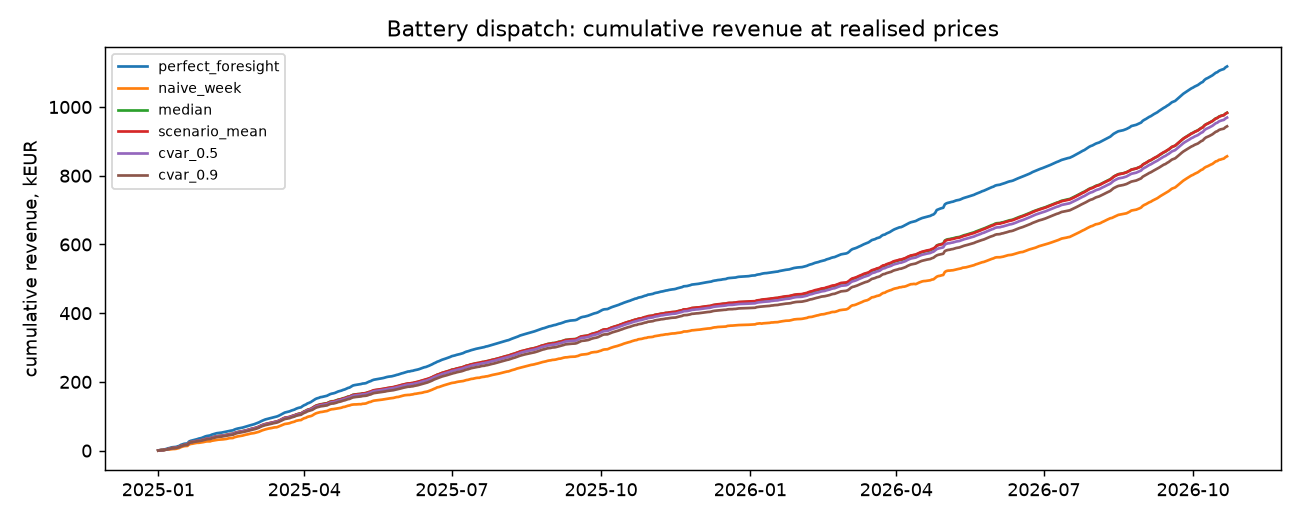
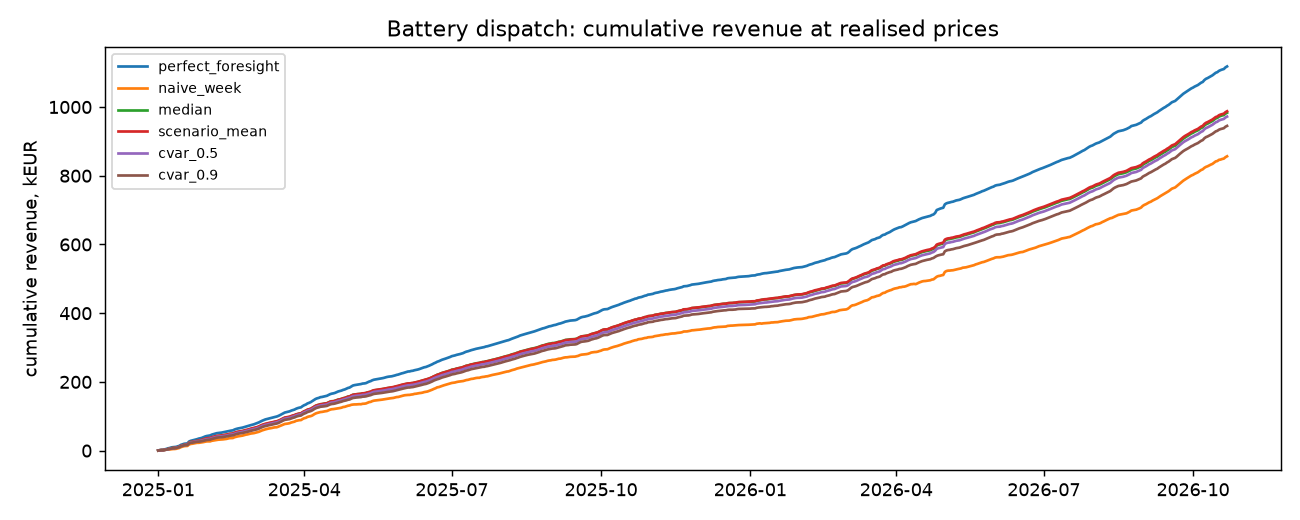
Review fixes: internal-only MLflow, past-only copula rho, README corrections

diff --git a/src/energy_forecasting/pipeline.py b/src/energy_forecasting/pipeline.py
@@ -78,10 +78,10 @@ def stage_backtest(s: Settings | None = None) -> pd.DataFrame:
     p = _paths(s)
     feats = FeatureSchema.validate(pd.read_parquet(p["features"]))
     raw = load_raw(p["raw"])
-    pred = run_backtest(feats, raw)
+    pred = run_backtest(feats, raw, s.first_fold, s.calib_months)
     PredictionSchema.validate(pred)
     pred.to_parquet(p["pred"])
-    metrics = evaluate(pred)
+    metrics = evaluate(pred, s.eval_start)
     metrics.to_csv(p["metrics"])
     with tracking.run("backtest") as active:
         if active:
@@ -98,14 +98,20 @@ def stage_dispatch(s: Settings | None = None, batt: Battery | None = None) -> pd
     batt = batt or Battery()
     p = _paths(s)
     pred = PredictionSchema.validate(pd.read_parquet(p["pred"]))
-    daily, rho = run_dispatch_backtest(pred, batt, QCOLS, lambdas=(0.5, 0.9), seed=s.seed)
+    daily, rho_by_month = run_dispatch_backtest(
+        pred, batt, QCOLS, lambdas=(0.5, 0.9), seed=s.seed, eval_start=s.eval_start
+    )
     daily.to_parquet(p["daily"])
     summary = summarise(daily, batt)
     summary.to_csv(p["dispatch"])
-    p["meta"].write_text(json.dumps({"rho": rho, "n_days": len(daily), "battery": batt.__dict__}))
+    p["meta"].write_text(
+        json.dumps({"rho_by_month": rho_by_month, "n_days": len(daily), "battery": batt.__dict__})
+    )
     with tracking.run("dispatch") as active:
         if active:
-            mlflow.log_params({**batt.__dict__, "copula_rho": round(rho, 3)})
+            mlflow.log_params(
+                {**batt.__dict__, "copula_rho_mean": round(sum(rho_by_month.values()) / len(rho_by_month), 3)}
+            )
             for strat, row in summary.iterrows():
                 mlflow.log_metrics({f"{strat}.{k}": v for k, v in row.items()})
             mlflow.log_artifact(str(p["dispatch"]))
@@ -121,6 +127,7 @@ def stage_report(s: Settings | None = None) -> None:
     pred = pd.read_parquet(p["pred"])
 
     # forecast fan chart for a sample week
+    pred = pred[pred["fold"] >= pd.Timestamp(s.eval_start)]
     week = pred.loc[pred.index >= pred.index[len(pred) // 2]].iloc[: 24 * 7]
     fig, ax = plt.subplots(figsize=(10, 4))
     ax.fill_between(week.index, week["c0.9_lo"], week["c0.9_hi"], alpha=0.2, label="90% (CQR)")

diff --git a/src/energy_forecasting/dispatch.py b/src/energy_forecasting/dispatch.py
@@ -109,15 +109,31 @@ def run_dispatch_backtest(
     lambdas: tuple[float, ...] = (0.5,),
     n_scen: int = 50,
     seed: int = 42,
-) -> tuple[pd.DataFrame, float]:
-    """Daily revenues (EUR) at realised prices for each strategy."""
+    eval_start: str = "2025-01-01",
+) -> tuple[pd.DataFrame, dict[str, float]]:
+    """Daily revenues (EUR) at realised prices for each strategy.
+
+    The copula correlation rho for each month is estimated only from the raw-quantile
+    predictions of earlier folds (burn-in folds included), never from the month itself.
+    """
     local = pred.index.tz_convert("Europe/Paris")
     date = np.asarray(local.normalize().tz_localize(None))
-    rho = estimate_rho(pred["y"].to_numpy(), pred[qcols].to_numpy(), date)
+    folds = pred["fold"].to_numpy()
+    rho_by_month: dict[str, float] = {}
     rows = []
     for k, (day, g) in enumerate(pred.groupby(date)):
+        fold = g["fold"].iloc[0]
+        if fold < pd.Timestamp(eval_start):
+            continue
         if len(g) < 23 or g[qcols + ["y", "naive_week"]].isna().any().any():
             continue
+        key = str(fold.date())
+        if key not in rho_by_month:
+            past = folds < fold
+            rho_by_month[key] = estimate_rho(
+                pred["y"].to_numpy()[past], pred[qcols].to_numpy()[past], date[past]
+            )
+        rho = rho_by_month[key]
         y = g["y"].to_numpy()
         row: dict[str, float] = {"date": day}
         for name, price in (
@@ -131,7 +147,7 @@ def run_dispatch_backtest(
         for lam in lambdas:
             row[f"cvar_{lam:g}"] = realised_revenue(y, *solve_schedule(sc, batt, lam=lam), batt)
         rows.append(row)
-    return pd.DataFrame(rows).set_index("date"), rho
+    return pd.DataFrame(rows).set_index("date"), rho_by_month
 
 
 def summarise(daily: pd.DataFrame, batt: Battery) -> pd.DataFrame:

diff --git a/src/energy_forecasting/backtest.py b/src/energy_forecasting/backtest.py
@@ -28,10 +28,10 @@ def run_backtest(
     feats: pd.DataFrame,
     raw: pd.DataFrame,
     first_fold: str = "2024-07-01",
-    eval_start: str = "2025-01-01",
     calib_months: int = 3,
 ) -> pd.DataFrame:
-    """Return per-hour predictions for all folds from `first_fold` to the end of the data.
+    """Return per-hour predictions for all folds from `first_fold` to the end of the data
+    (burn-in folds included; metrics and dispatch only use folds >= the evaluation start).
 
     Fold m: fit on all rows with delivery date < m (their targets are known at m's first
     origin), predict month m. Conformal offsets for month m use only out-of-sample scores
@@ -78,16 +78,20 @@ def run_backtest(
     emp.columns = ["emp_" + c for c in emp.columns]
     out = out.join(emp)
     out["median"] = out["q0.50"]
-    return out[out["fold"] >= pd.Timestamp(eval_start)] if eval_start else out
+    return out
 
 
 def _interval_stats(y: np.ndarray, lo: np.ndarray, hi: np.ndarray) -> tuple[float, float]:
     return float(((y >= lo) & (y <= hi)).mean()), float((hi - lo).mean())
 
 
-def evaluate(pred: pd.DataFrame) -> pd.DataFrame:
+def evaluate(pred: pd.DataFrame, eval_start: str = "2025-01-01") -> pd.DataFrame:
     """Metrics table, one row per method (rows with complete data only)."""
-    p = pred.dropna(subset=["c0.8_lo", "emp_q0.50", "naive_week"]).copy()
+    p = (
+        pred[pred["fold"] >= pd.Timestamp(eval_start)]
+        .dropna(subset=["c0.8_lo", "emp_q0.50", "naive_week"])
+        .copy()
+    )
     y = p["y"].to_numpy()
     qs = np.array(QUANTILES)
     rows = []

diff --git a/tests/test_pipeline_smoke.py b/tests/test_pipeline_smoke.py
@@ -14,18 +14,10 @@ from energy_forecasting.config import Settings
 @pytest.mark.slow
 def test_full_pipeline(raw: pd.DataFrame, tmp_path: Path, monkeypatch: pytest.MonkeyPatch) -> None:
     monkeypatch.setenv("MLFLOW_TRACKING_URI", f"file:{tmp_path / 'mlruns'}")
-    s = Settings(data_dir=tmp_path)
+    s = Settings(data_dir=tmp_path, first_fold="2025-03-01", eval_start="2025-05-01", calib_months=2)
     s.raw_dir.mkdir(parents=True)
     raw.to_parquet(s.raw_dir / "entsoe_hourly.parquet")
     monkeypatch.setattr(pipeline, "REPORTS", tmp_path / "reports")
-    # shorter backtest to keep CI fast
-    from energy_forecasting import backtest
-
-    orig = backtest.run_backtest
-    monkeypatch.setattr(
-        pipeline, "run_backtest",
-        lambda f, r: orig(f, r, first_fold="2025-03-01", eval_start="2025-05-01", calib_months=2),
-    )  # fmt: skip
     pipeline.stage_features(s)
     pipeline.stage_train(s)
     metrics = pipeline.stage_backtest(s)

diff --git a/src/energy_forecasting/config.py b/src/energy_forecasting/config.py
@@ -21,6 +21,9 @@ class Settings(BaseSettings):
     end: str = "2026-10-20"
     data_dir: Path = ROOT / "data"
     seed: int = 42
+    eval_start: str = "2025-01-01"
+    first_fold: str = "2024-07-01"
+    calib_months: int = 3
 
     @property
     def raw_dir(self) -> Path:

diff --git a/README.md b/README.md
@@ -28,7 +28,7 @@ flowchart LR
     INF --> OUT[forecast + schedule for D+1]
 ```
 
-Azure target (Terraform in [`infra/`](infra), **validated but never applied**): ACR, Key Vault (ENTSO-E key), Storage (Azure Files), PostgreSQL Flexible Server (MLflow DB), Container Apps environment with an MLflow app, a **daily Container Apps Job** running `energy infer` before gate closure, and a scale-to-zero read-only API.
+Azure target (Terraform in [`infra/`](infra), **validated but never applied**): ACR, Key Vault (ENTSO-E key), Storage (Azure Files), PostgreSQL Flexible Server (MLflow DB), Container Apps environment with an **internal-only** MLflow app (no authentication, so it is not exposed publicly), a **daily Container Apps Job** running `energy infer` before gate closure, and a scale-to-zero read-only API.
 
 ## Data
 
@@ -62,7 +62,7 @@ Azure target (Terraform in [`infra/`](infra), **validated but never applied**): 
 | QuantileGBM + CQR |    **17.31** |    6.60 | 13.20 |     0.80 |      54.60 |     0.89 |      72.09 |
 
 * The GBM cuts MAE by 36 % vs. the best naive baseline and CRPS by 39 % vs. the empirical-quantile baseline.
-* Raw quantiles are **over-confident** (66 % coverage for a nominal 80 % interval). CQR restores 79.5 % / 88.7 % coverage at the price of wider intervals — still ~30 % narrower than the empirical baseline at equal or better coverage.
+* Raw quantiles are **over-confident** (66 % coverage for a nominal 80 % interval). CQR restores 79.5 % / 88.7 % coverage at the price of wider intervals — still 25–30 % narrower than the empirical baseline (80 %: 54.6 vs 77.9; 90 %: 72.1 vs 96.0) at equal or better coverage.
 * 2026 is harder than 2025 (median MAE 20.7 vs. 14.6; price std 69 vs. 46 EUR/MWh), see `reports/results.md` and the MLflow runs.
 
 ![forecast](reports/figures/forecast_week.png)
@@ -76,7 +76,7 @@ LP per delivery day (cvxpy + HiGHS), 10 MW / 20 MWh battery, 90 % round-trip eff
 | `perfect_foresight` | LP on realised prices (upper bound) |
 | `naive_week` | LP on last week's prices |
 | `median` | LP on the forecast median |
-| `scenario_mean` | 50 price paths sampled from the quantiles (Gaussian AR(1) copula, ρ = 0.85 estimated from the PIT of the backtest), maximise expected revenue |
+| `scenario_mean` | 50 price paths sampled from the quantiles (Gaussian AR(1) copula, ρ ≈ 0.83–0.86, re-estimated each month from the PIT of earlier folds only, burn-in folds included), maximise expected revenue |
 | `cvar_λ` | same scenarios, maximise (1−λ)·E[R] + λ·CVaR₂₀%[R] (Rockafellar–Uryasev), λ ∈ {0.5, 0.9} |
 
 660 delivery days, 2025-01-01 → 2026-10-22:
@@ -86,14 +86,15 @@ LP per delivery day (cvxpy + HiGHS), 10 MW / 20 MWh battery, 90 % round-trip eff
 | perfect_foresight |        1,118.1 |          61,834 |                  100.0 |               504.7 |           948.1 |
 | naive_week        |          856.6 |          47,371 |                   76.6 |               164.0 |           916.1 |
 | median            |          983.3 |          54,381 |               **87.9** |               267.4 |           928.7 |
-| scenario_mean     |          983.0 |          54,361 |               **87.9** |               269.7 |           902.2 |
-| cvar_0.5          |          969.2 |          53,602 |                   86.7 |               277.0 |           890.0 |
-| cvar_0.9          |          943.8 |          52,196 |                   84.4 |               253.2 |           878.3 |
+| scenario_mean     |          987.5 |          54,614 |               **88.3** |               277.9 |           926.6 |
+| cvar_0.5          |          972.1 |          53,759 |                   86.9 |               275.9 |           913.9 |
+| cvar_0.9          |          945.0 |          52,262 |                   84.5 |               266.7 |           886.7 |
 
 Takeaways (honest reading):
 
 * The probabilistic model captures **87.9 %** of perfect-foresight revenue vs. 76.6 % for last-week prices (+11 pts).
-* With a battery that already cycles once or twice a day, using the *full distribution* does **not** raise expected revenue over the median schedule (87.9 % vs. 87.9 %): arbitrage depends mainly on the *ordering* of hours, which the median already gets right. CVaR shifts the trade-off (λ = 0.5: −1.2 pts of revenue for a better worst-5 % day, 277 vs. 267 EUR and lower daily std); λ = 0.9 over-hedges and loses on both counts.
+* Using the full distribution barely moves expected revenue: the scenario schedule gains 0.4 pt over the median schedule (88.3 % vs 87.9 %) and has a better worst-5 % day (278 vs 267 EUR). Arbitrage depends mainly on the *ordering* of hours, which the median already gets right.
+* CVaR trades revenue for a flatter distribution: λ = 0.5 gives 86.9 % (−1.4 pts vs. scenario_mean) with lower daily std (914 vs 927 EUR) but no better worst-5 % day (276 vs 278); λ = 0.9 over-hedges (84.5 %). In this backtest the risk-aware variants do not pay off.
 * Caveats: the LP has no mutual-exclusion constraint on charge/discharge; with perfect foresight 51 of 15,839 hours (0.3 %) charge and discharge simultaneously during negative prices, which slightly overstates the upper bound. Price-taker assumption (no market impact), no intraday/balancing revenue, no capacity or ancillary-service income, fixed efficiency and SoC bounds.
 
 ![dispatch](reports/figures/dispatch_cumulative.png)
@@ -123,6 +124,8 @@ Terraform (validate only — nothing is created):
 ```bash
 terraform -chdir=infra init -backend=false && terraform -chdir=infra validate
 ```
+
+Postgres is opened with the `0.0.0.0` firewall rule, which allows all Azure services: acceptable for a demo; production should use VNet integration / a private endpoint. The Terraform state contains secrets (ENTSO-E key, DB password): use a remote encrypted backend (e.g. an Azure Storage account with encryption and restricted access) rather than local state.
 
 Deploying would need `terraform apply -var subscription_id=… -var entsoe_api_key=… -var postgres_admin_password=…`, pushing the two images (`Dockerfile`, `docker/mlflow.Dockerfile`) to the created ACR, and registering a model in the deployed MLflow. This has intentionally **not** been done.
 

diff --git a/reports/results.md b/reports/results.md
@@ -15,6 +15,6 @@
 | perfect_foresight |      1.1181e+06 |           61834.1 |            100   |                504.7 |           948.1 |
 | naive_week        | 856574          |           47371.2 |             76.6 |                164   |           916.1 |
 | median            | 983324          |           54380.8 |             87.9 |                267.4 |           928.7 |
-| scenario_mean     | 982957          |           54360.5 |             87.9 |                269.7 |           902.2 |
-| cvar_0.5          | 969242          |           53602   |             86.7 |                277   |           890   |
-| cvar_0.9          | 943811          |           52195.6 |             84.4 |                253.2 |           878.3 |
+| scenario_mean     | 987541          |           54614   |             88.3 |                277.9 |           926.6 |
+| cvar_0.5          | 972074          |           53758.6 |             86.9 |                275.9 |           913.9 |
+| cvar_0.9          | 945004          |           52261.6 |             84.5 |                266.7 |           886.7 |
